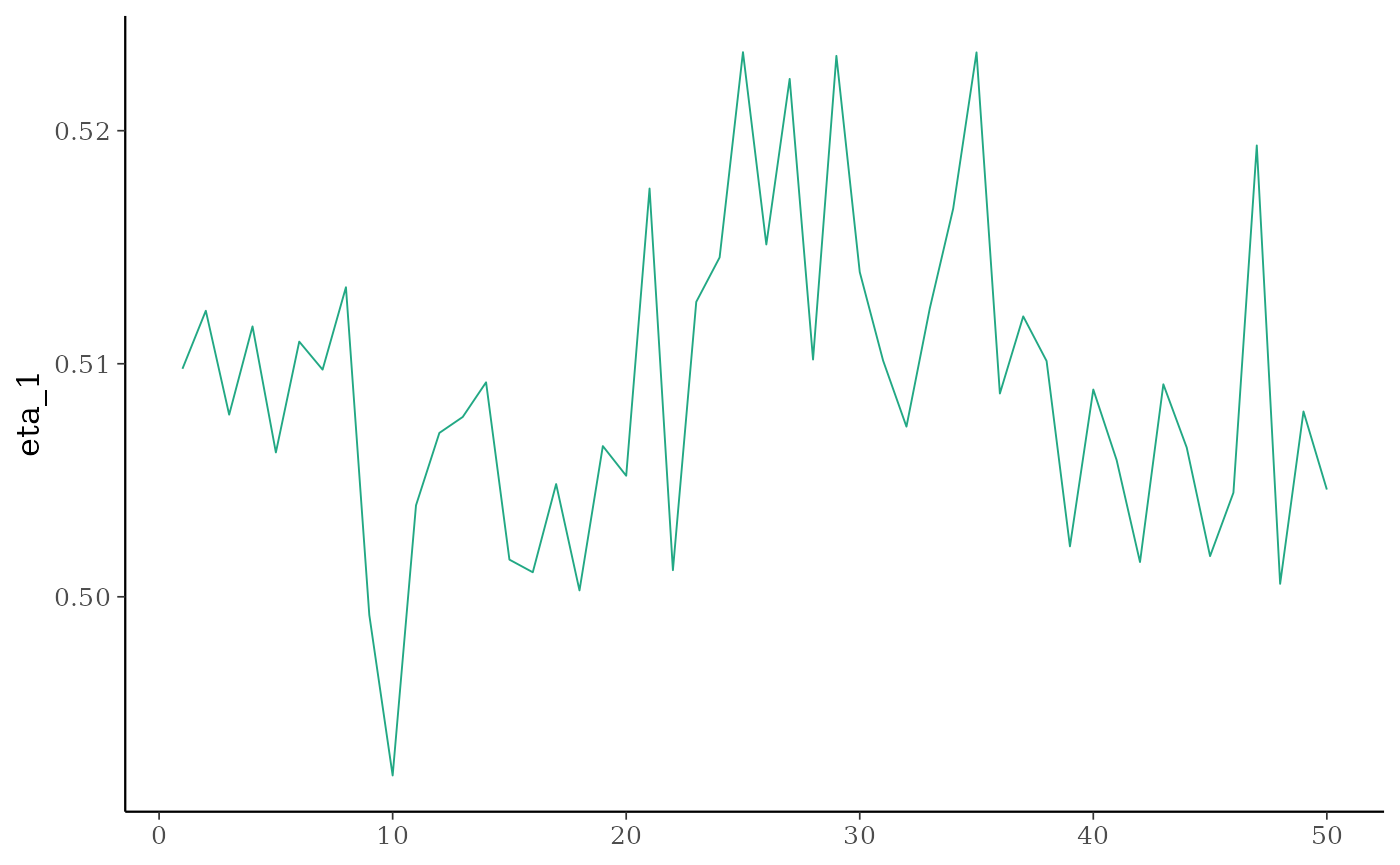
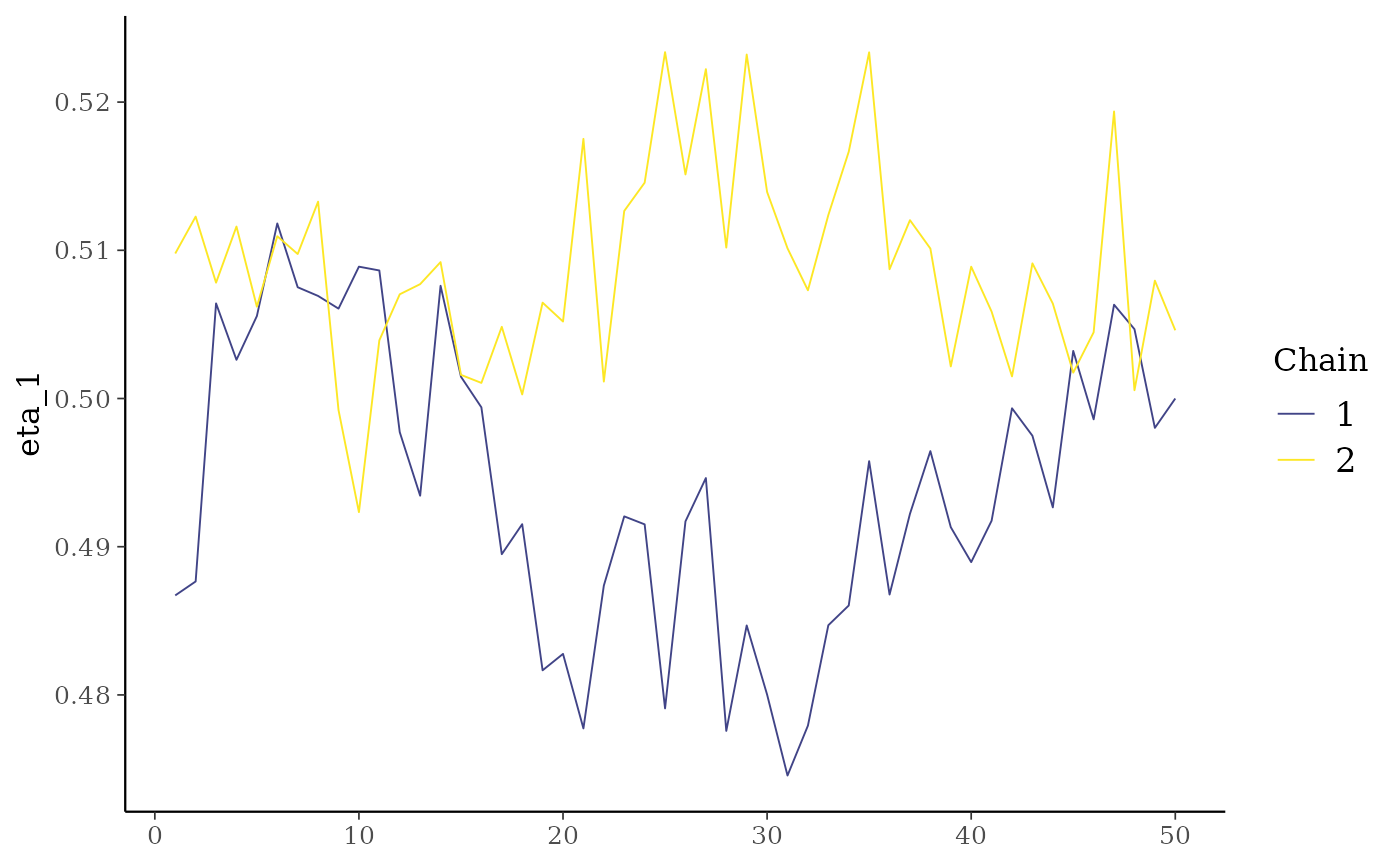
Deploying to gh-pages from @ vivianalobo/lnmixsurv@5915062d77c28ae444dfe271e49d6f4b01b6be29 🚀

diff --git a/articles/parallel_computation.html b/articles/parallel_computation.html
@@ -97,17 +97,18 @@ will run on one core, by specifying the cores argument. Any value above
 <span><span class="va">mod_sequential</span> <span class="op">&lt;-</span> <span class="fu"><a href="../reference/survival_ln_mixture.html">survival_ln_mixture</a></span><span class="op">(</span><span class="fu"><a href="https://rdrr.io/pkg/survival/man/Surv.html" class="external-link">Surv</a></span><span class="op">(</span><span class="va">y</span>, <span class="va">delta</span><span class="op">)</span> <span class="op">~</span> <span class="va">x</span>, </span>
 <span>                                      data <span class="op">=</span> <span class="va">sim_data</span><span class="op">$</span><span class="va">data</span>, </span>
 <span>                                      chains <span class="op">=</span> <span class="fl">4</span>, starting_seed <span class="op">=</span> <span class="fl">50</span><span class="op">)</span></span>
-<span><span class="co"># Time to run 6 chains sequentially:</span></span>
+<span><span class="co"># Time to run 4 chains sequentially:</span></span>
 <span><span class="fu"><a href="https://rdrr.io/r/base/print.html" class="external-link">print</a></span><span class="op">(</span><span class="fu"><a href="https://rdrr.io/r/base/Sys.time.html" class="external-link">Sys.time</a></span><span class="op">(</span><span class="op">)</span> <span class="op">-</span> <span class="va">start</span><span class="op">)</span></span>
-<span><span class="co">#&gt; Time difference of 24.31516 secs</span></span>
+<span><span class="co">#&gt; Time difference of 24.6938 secs</span></span>
 <span></span>
 <span><span class="va">start</span> <span class="op">&lt;-</span> <span class="fu"><a href="https://rdrr.io/r/base/Sys.time.html" class="external-link">Sys.time</a></span><span class="op">(</span><span class="op">)</span></span>
 <span><span class="va">mod_parallel</span> <span class="op">&lt;-</span> <span class="fu"><a href="../reference/survival_ln_mixture.html">survival_ln_mixture</a></span><span class="op">(</span><span class="fu"><a href="https://rdrr.io/pkg/survival/man/Surv.html" class="external-link">Surv</a></span><span class="op">(</span><span class="va">y</span>, <span class="va">delta</span><span class="op">)</span> <span class="op">~</span> <span class="va">x</span>, </span>
 <span>                                    data <span class="op">=</span> <span class="va">sim_data</span><span class="op">$</span><span class="va">data</span>, </span>
-<span>                                    chains <span class="op">=</span> <span class="fl">12</span>, cores <span class="op">=</span> <span class="fl">12</span>, iter <span class="op">=</span> <span class="fl">4000</span><span class="op">)</span></span>
-<span><span class="co"># Time to run 6 chains in parallel:</span></span>
+<span>                                    chains <span class="op">=</span> <span class="fl">4</span>, cores <span class="op">=</span> <span class="fl">4</span>,</span>
+<span>                                    starting_seed <span class="op">=</span> <span class="fl">50</span><span class="op">)</span></span>
+<span><span class="co"># Time to run 4 chains in parallel:</span></span>
 <span><span class="fu"><a href="https://rdrr.io/r/base/print.html" class="external-link">print</a></span><span class="op">(</span><span class="fu"><a href="https://rdrr.io/r/base/Sys.time.html" class="external-link">Sys.time</a></span><span class="op">(</span><span class="op">)</span> <span class="op">-</span> <span class="va">start</span><span class="op">)</span></span>
-<span><span class="co">#&gt; Time difference of 2.629151 mins</span></span></code></pre></div>
+<span><span class="co">#&gt; Time difference of 27.25955 secs</span></span></code></pre></div>
 <p>For small runs, we can see that the parallel model is lower because
 of the time required to build the clusters. We can effectively see this
 time to build the clusters by running a really small chain.</p>
@@ -118,18 +119,18 @@ time to build the clusters by running a really small chain.</p>
 <span>                                            iter <span class="op">=</span> <span class="fl">1</span>, em_iter <span class="op">=</span> <span class="fl">1</span>,</span>
 <span>                                            chains <span class="op">=</span> <span class="fl">4</span><span class="op">)</span></span>
 <span></span>
-<span><span class="co"># Time to run 1 EM iter and 1 MCMC iter on 6 chains, sequentially:</span></span>
+<span><span class="co"># Time to run 1 EM iter and 1 MCMC iter on 4 chains, sequentially:</span></span>
 <span><span class="fu"><a href="https://rdrr.io/r/base/print.html" class="external-link">print</a></span><span class="op">(</span><span class="fu"><a href="https://rdrr.io/r/base/Sys.time.html" class="external-link">Sys.time</a></span><span class="op">(</span><span class="op">)</span> <span class="op">-</span> <span class="va">start</span><span class="op">)</span></span>
-<span><span class="co">#&gt; Time difference of 0.2304351 secs</span></span>
+<span><span class="co">#&gt; Time difference of 0.1783857 secs</span></span>
 <span></span>
 <span><span class="va">start</span> <span class="op">&lt;-</span> <span class="fu"><a href="https://rdrr.io/r/base/Sys.time.html" class="external-link">Sys.time</a></span><span class="op">(</span><span class="op">)</span></span>
 <span><span class="va">mod_parallel_small</span> <span class="op">&lt;-</span> <span class="fu"><a href="../reference/survival_ln_mixture.html">survival_ln_mixture</a></span><span class="op">(</span><span class="fu"><a href="https://rdrr.io/pkg/survival/man/Surv.html" class="external-link">Surv</a></span><span class="op">(</span><span class="va">y</span>, <span class="va">delta</span><span class="op">)</span> <span class="op">~</span> <span class="va">x</span>, </span>
 <span>                                          data <span class="op">=</span> <span class="va">sim_data</span><span class="op">$</span><span class="va">data</span>, </span>
 <span>                                          iter <span class="op">=</span> <span class="fl">1</span>, em_iter <span class="op">=</span> <span class="fl">1</span>,</span>
 <span>                                          chains <span class="op">=</span> <span class="fl">4</span>, cores <span class="op">=</span> <span class="fl">4</span><span class="op">)</span></span>
-<span><span class="co"># Time to run 1 EM iter and 1 MCMC iter on 6 chains in parallel:</span></span>
+<span><span class="co"># Time to run 1 EM iter and 1 MCMC iter on 4 chains in parallel:</span></span>
 <span><span class="fu"><a href="https://rdrr.io/r/base/print.html" class="external-link">print</a></span><span class="op">(</span><span class="fu"><a href="https://rdrr.io/r/base/Sys.time.html" class="external-link">Sys.time</a></span><span class="op">(</span><span class="op">)</span> <span class="op">-</span> <span class="va">start</span><span class="op">)</span></span>
-<span><span class="co">#&gt; Time difference of 4.741011 secs</span></span></code></pre></div>
+<span><span class="co">#&gt; Time difference of 4.58175 secs</span></span></code></pre></div>
 <p>However, for longer runs, these few seconds to start the clusters are
 negligible and the parallel approach will outperform the sequential
 approach at some point.</p>
@@ -137,30 +138,30 @@ approach at some point.</p>
 <code class="sourceCode R"><span><span class="va">start</span> <span class="op">&lt;-</span> <span class="fu"><a href="https://rdrr.io/r/base/Sys.time.html" class="external-link">Sys.time</a></span><span class="op">(</span><span class="op">)</span></span>
 <span><span class="va">mod_sequential_longer</span> <span class="op">&lt;-</span> <span class="fu"><a href="../reference/survival_ln_mixture.html">survival_ln_mixture</a></span><span class="op">(</span><span class="fu"><a href="https://rdrr.io/pkg/survival/man/Surv.html" class="external-link">Surv</a></span><span class="op">(</span><span class="va">y</span>, <span class="va">delta</span><span class="op">)</span> <span class="op">~</span> <span class="va">x</span>, </span>
 <span>                                           data <span class="op">=</span> <span class="va">sim_data</span><span class="op">$</span><span class="va">data</span>, </span>
-<span>                                           iter <span class="op">=</span> <span class="fl">8000</span>, chains <span class="op">=</span> <span class="fl">4</span>,</span>
+<span>                                           iter <span class="op">=</span> <span class="fl">6000</span>, chains <span class="op">=</span> <span class="fl">6</span>,</span>
 <span>                                           starting_seed <span class="op">=</span> <span class="fl">50</span><span class="op">)</span></span>
-<span><span class="co"># Time to run 8000 iterations in 4 chains in sequence:</span></span>
+<span><span class="co"># Time to run 6000 iterations in 6 chains in sequence:</span></span>
 <span><span class="fu"><a href="https://rdrr.io/r/base/print.html" class="external-link">print</a></span><span class="op">(</span><span class="fu"><a href="https://rdrr.io/r/base/Sys.time.html" class="external-link">Sys.time</a></span><span class="op">(</span><span class="op">)</span> <span class="op">-</span> <span class="va">start</span><span class="op">)</span></span>
-<span><span class="co">#&gt; Time difference of 1.386914 mins</span></span>
+<span><span class="co">#&gt; Time difference of 1.649689 mins</span></span>
 <span></span>
 <span><span class="va">start</span> <span class="op">&lt;-</span> <span class="fu"><a href="https://rdrr.io/r/base/Sys.time.html" class="external-link">Sys.time</a></span><span class="op">(</span><span class="op">)</span></span>
 <span><span class="va">mod_parallel_longer</span> <span class="op">&lt;-</span> <span class="fu"><a href="../reference/survival_ln_mixture.html">survival_ln_mixture</a></span><span class="op">(</span><span class="fu"><a href="https://rdrr.io/pkg/survival/man/Surv.html" class="external-link">Surv</a></span><span class="op">(</span><span class="va">y</span>, <span class="va">delta</span><span class="op">)</span> <span class="op">~</span> <span class="va">x</span>, </span>
 <span>                                           data <span class="op">=</span> <span class="va">sim_data</span><span class="op">$</span><span class="va">data</span>, </span>
-<span>                                           iter <span class="op">=</span> <span class="fl">8000</span>, chains <span class="op">=</span> <span class="fl">4</span>,</span>
-<span>                                           cores <span class="op">=</span> <span class="fl">4</span>,</span>
+<span>                                           iter <span class="op">=</span> <span class="fl">6000</span>, chains <span class="op">=</span> <span class="fl">6</span>,</span>
+<span>                                           cores <span class="op">=</span> <span class="fl">6</span>,</span>
 <span>                                           starting_seed <span class="op">=</span> <span class="fl">50</span><span class="op">)</span></span>
-<span><span class="co"># Time to run 8000 iterations in 4 chains in parallel:</span></span>
+<span><span class="co"># Time to run 6000 iterations in 6 chains in parallel:</span></span>
 <span><span class="fu"><a href="https://rdrr.io/r/base/print.html" class="external-link">print</a></span><span class="op">(</span><span class="fu"><a href="https://rdrr.io/r/base/Sys.time.html" class="external-link">Sys.time</a></span><span class="op">(</span><span class="op">)</span> <span class="op">-</span> <span class="va">start</span><span class="op">)</span></span>
-<span><span class="co">#&gt; Time difference of 1.460433 mins</span></span></code></pre></div>
+<span><span class="co">#&gt; Time difference of 1.747944 mins</span></span></code></pre></div>
 <p>Since the seed is fixed, we expect to obtain the same chain on both
 kind of operations. We can make sure this is happening by look at a
 small portion of the chains.</p>
 <div class="sourceCode" id="cb5"><pre class="downlit sourceCode r">
-<code class="sourceCode R"><span><span class="fu"><a href="https://mc-stan.org/bayesplot/reference/MCMC-traces.html" class="external-link">mcmc_trace</a></span><span class="op">(</span><span class="fu">posterior</span><span class="fu">::</span><span class="fu"><a href="https://mc-stan.org/posterior/reference/subset_draws.html" class="external-link">subset_draws</a></span><span class="op">(</span><span class="va">mod_sequential</span><span class="op">$</span><span class="va">posterior</span>, iteration <span class="op">=</span> <span class="fl">1</span><span class="op">:</span><span class="fl">50</span>, chain <span class="op">=</span> <span class="fl">4</span>, variable <span class="op">=</span> <span class="st">'eta_1'</span><span class="op">)</span><span class="op">)</span></span></code></pre></div>
+<code class="sourceCode R"><span><span class="fu"><a href="https://mc-stan.org/bayesplot/reference/MCMC-traces.html" class="external-link">mcmc_trace</a></span><span class="op">(</span><span class="fu">posterior</span><span class="fu">::</span><span class="fu"><a href="https://mc-stan.org/posterior/reference/subset_draws.html" class="external-link">subset_draws</a></span><span class="op">(</span><span class="va">mod_sequential</span><span class="op">$</span><span class="va">posterior</span>, iteration <span class="op">=</span> <span class="fl">1</span><span class="op">:</span><span class="fl">50</span>, chain <span class="op">=</span> <span class="fu"><a href="https://rdrr.io/r/base/c.html" class="external-link">c</a></span><span class="op">(</span><span class="fl">1</span>, <span class="fl">4</span><span class="op">)</span>, variable <span class="op">=</span> <span class="st">'eta_1'</span><span class="op">)</span><span class="op">)</span></span></code></pre></div>
 <p><img src="parallel_computation_files/figure-html/unnamed-chunk-5-1.png" width="700"></p>
 <div class="sourceCode" id="cb6"><pre class="downlit sourceCode r">
 <code class="sourceCode R"><span></span>
-<span><span class="fu"><a href="https://mc-stan.org/bayesplot/reference/MCMC-traces.html" class="external-link">mcmc_trace</a></span><span class="op">(</span><span class="fu">posterior</span><span class="fu">::</span><span class="fu"><a href="https://mc-stan.org/posterior/reference/subset_draws.html" class="external-link">subset_draws</a></span><span class="op">(</span><span class="va">mod_parallel</span><span class="op">$</span><span class="va">posterior</span>, iteration <span class="op">=</span> <span class="fl">1</span><span class="op">:</span><span class="fl">50</span>, chain <span class="op">=</span> <span class="fl">4</span>, variable <span class="op">=</span> <span class="st">'eta_1'</span><span class="op">)</span><span class="op">)</span></span></code></pre></div>
+<span><span class="fu"><a href="https://mc-stan.org/bayesplot/reference/MCMC-traces.html" class="external-link">mcmc_trace</a></span><span class="op">(</span><span class="fu">posterior</span><span class="fu">::</span><span class="fu"><a href="https://mc-stan.org/posterior/reference/subset_draws.html" class="external-link">subset_draws</a></span><span class="op">(</span><span class="va">mod_parallel</span><span class="op">$</span><span class="va">posterior</span>, iteration <span class="op">=</span> <span class="fl">1</span><span class="op">:</span><span class="fl">50</span>, chain <span class="op">=</span> <span class="fu"><a href="https://rdrr.io/r/base/c.html" class="external-link">c</a></span><span class="op">(</span><span class="fl">1</span>, <span class="fl">4</span><span class="op">)</span>, variable <span class="op">=</span> <span class="st">'eta_1'</span><span class="op">)</span><span class="op">)</span></span></code></pre></div>
 <p><img src="parallel_computation_files/figure-html/unnamed-chunk-5-2.png" width="700"></p>
   </main>
 </div>

diff --git a/articles/posterior_analysis.html b/articles/posterior_analysis.html
@@ -97,7 +97,7 @@ using the Stan ecosystem tools, like <code>bayesplot</code>.</p>
 <span></span>
 <span><span class="fu"><a href="https://mc-stan.org/bayesplot/reference/MCMC-traces.html" class="external-link">mcmc_trace</a></span><span class="op">(</span><span class="va">mod1</span><span class="op">$</span><span class="va">posterior</span><span class="op">[</span>, <span class="st">'eta_1'</span><span class="op">]</span><span class="op">)</span></span></code></pre></div>
 <p><img src="posterior_analysis_files/figure-html/setup-1.png" width="700"></p>
-<p>Since the seed is fixed, we expect to obtain the same chain if e run
+<p>Since the seed is fixed, we expect to obtain the same chain if we run
 the model again, with the same seed. We can make sure this is happening
 by look at a small portion of the chains.</p>
 <div class="sourceCode" id="cb2"><pre class="downlit sourceCode r">
